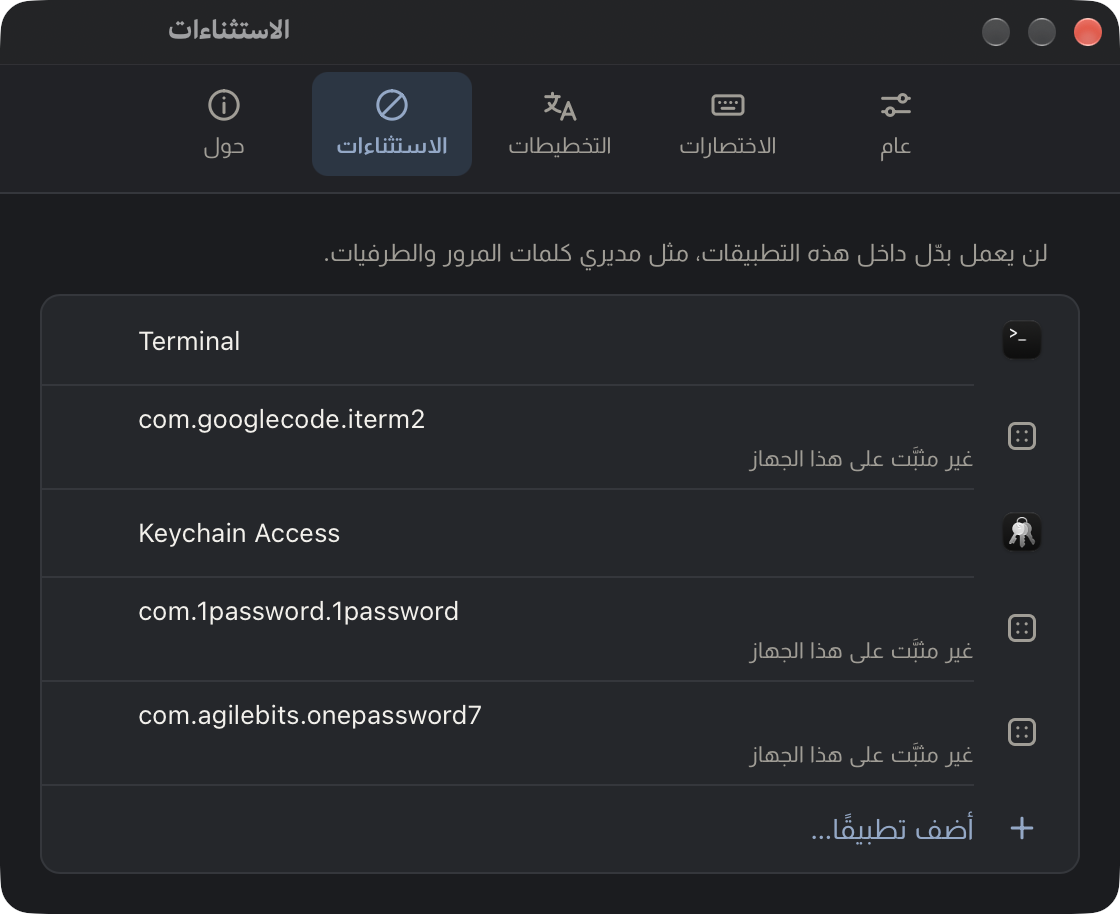
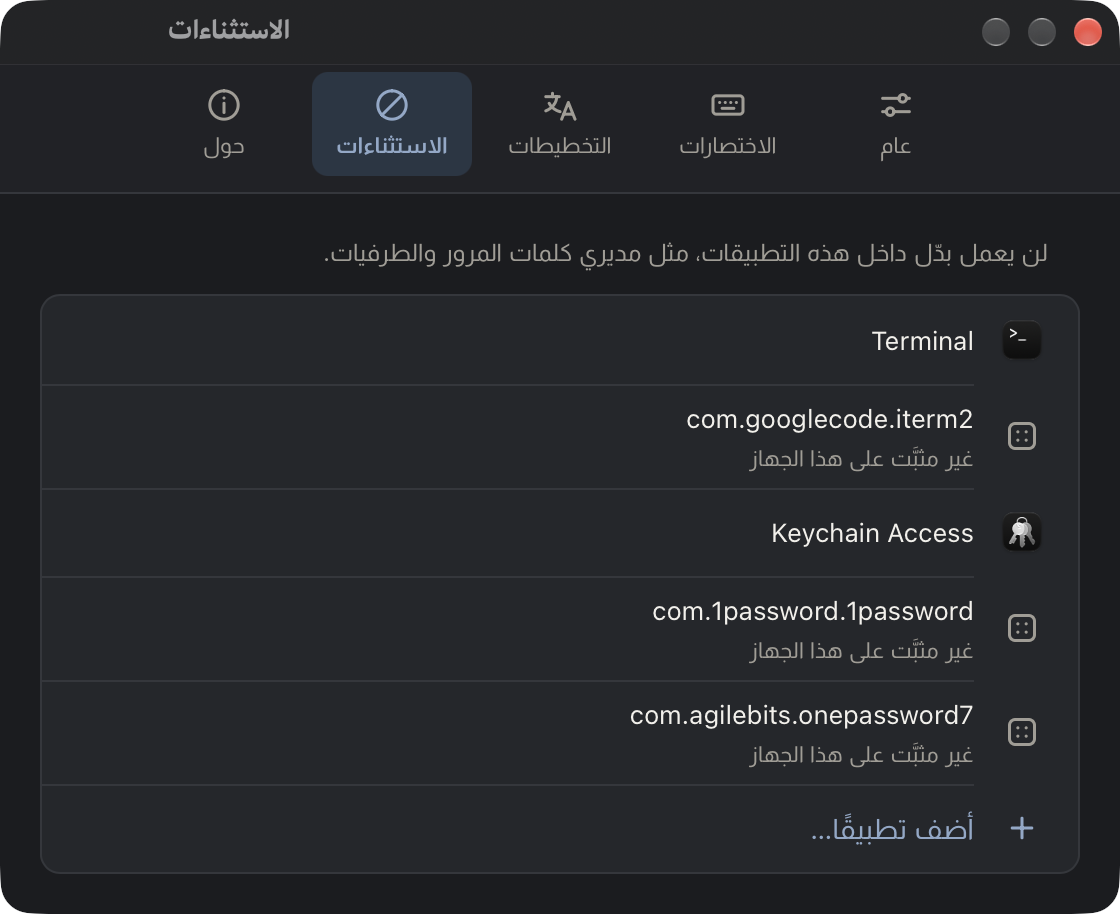
feat(tray): state-aware menu bar glyph; declare ar/en localizations; align app names to the row start in RTL
- tray.rs: the menu bar icon now shows ready / paused / needs-permission, with the
  same precedence as the menu header. The image is replaced only when the state
  actually changes (cached in an AtomicU8) inside the existing rebuild — no new
  timer or polling. Template PNGs exported from Figma.
- Info.plist: CFBundleLocalizations [ar, en] + CFBundleAllowMixedLocalizations, so
  system-drawn UI (the open panel behind "Add app…") follows an Arabic macOS
  instead of falling back to English.
- AppListRow: a Latin app name is still its own LTR run, but it now hugs its text
  and sits beside the icon in RTL. Recaptured the two Arabic Exceptions screenshots.
- STATUS.md: records the three follow-ups.

diff --git a/src/lib/components/AppListRow.svelte b/src/lib/components/AppListRow.svelte
@@ -78,15 +78,19 @@
     color: var(--text-secondary);
   }
 
+  /* A Latin name is its own left-to-right run, but it still belongs beside the icon:
+     the run hugs its text and sits at the row's start, whichever side that is. */
   .text {
     display: flex;
     flex: 1;
     flex-direction: column;
+    align-items: flex-start;
     min-width: 0;
   }
 
   .name,
   .id {
+    max-width: 100%;
     overflow: hidden;
     text-overflow: ellipsis;
     white-space: nowrap;

diff --git a/src-tauri/src/tray.rs b/src-tauri/src/tray.rs
@@ -5,7 +5,7 @@
 //! menus take no custom views, so the status header and the hint are plain
 //! disabled items.
 
-use std::sync::atomic::{AtomicBool, Ordering};
+use std::sync::atomic::{AtomicBool, AtomicU8, Ordering};
 use std::sync::Mutex;
 
 use tauri::image::Image;
@@ -21,19 +21,54 @@ use crate::{settings, sync, windows};
 
 const TRAY_ID: &str = "main";
 const TRAY_ICON: &[u8] = include_bytes!("../icons/tray.png");
+const TRAY_ICON_PAUSED: &[u8] = include_bytes!("../icons/tray-paused.png");
+const TRAY_ICON_NEEDS_PERMISSION: &[u8] = include_bytes!("../icons/tray-needs-permission.png");
+
+/// Which drawing the menu bar icon shows, so the state reads without opening the menu.
+/// All three are template images: black and alpha only, tinted by the system.
+#[derive(Clone, Copy, PartialEq, Eq)]
+#[repr(u8)]
+enum Glyph {
+    Ready = 0,
+    Paused = 1,
+    NeedsPermission = 2,
+}
+
+impl Glyph {
+    /// The same precedence as the menu's header: a missing permission outranks a pause.
+    fn of(trusted: bool, paused: bool) -> Self {
+        match (trusted, paused) {
+            (false, _) => Self::NeedsPermission,
+            (_, true) => Self::Paused,
+            _ => Self::Ready,
+        }
+    }
+
+    fn bytes(self) -> &'static [u8] {
+        match self {
+            Self::Ready => TRAY_ICON,
+            Self::Paused => TRAY_ICON_PAUSED,
+            Self::NeedsPermission => TRAY_ICON_NEEDS_PERMISSION,
+        }
+    }
+}
 
 /// What the menu shows beyond the preferences: the permission and the last conversion.
 #[derive(Default)]
 pub struct TrayState {
     trusted: AtomicBool,
+    /// The glyph currently on the menu bar, so the icon is only replaced when it changes.
+    glyph: AtomicU8,
     /// The last conversion, for the "اثممخ ← hello · تراجع" item. Held in memory only,
     /// never written anywhere, and cleared as soon as undo is no longer offered.
     last: Mutex<Option<(String, String)>>,
 }
 
 pub fn build(app: &AppHandle) -> tauri::Result<TrayIcon> {
+    let glyph = current_glyph(app);
+    app.state::<TrayState>().glyph.store(glyph as u8, Ordering::SeqCst);
     let tray = TrayIconBuilder::with_id(TRAY_ID)
-        .icon(Image::from_bytes(TRAY_ICON)?)
+        .icon(Image::from_bytes(glyph.bytes())?)
         .icon_as_template(true)
         .tooltip(menu_text::strings(app.state::<AppState>().get().language).name)
         .menu(&menu(app)?)
@@ -65,8 +100,21 @@ pub fn rebuild(app: &AppHandle) {
         if let Ok(menu) = menu(&handle) {
             let _ = tray.set_menu(Some(menu));
         }
+        let glyph = current_glyph(&handle);
+        if handle.state::<TrayState>().glyph.swap(glyph as u8, Ordering::SeqCst) != glyph as u8 {
+            if let Ok(image) = Image::from_bytes(glyph.bytes()) {
+                let _ = tray.set_icon(Some(image));
+                // Replacing the image drops the template flag, and with it the system tint.
+                let _ = tray.set_icon_as_template(true);
+            }
+        }
         let _ = tray.set_visible(handle.state::<AppState>().get().show_tray_icon);
     });
+}
+
+fn current_glyph(app: &AppHandle) -> Glyph {
+    let trusted = app.state::<TrayState>().trusted.load(Ordering::SeqCst);
+    Glyph::of(trusted, app.state::<AppState>().get().paused)
 }
 
 fn menu(app: &AppHandle) -> tauri::Result<Menu<Wry>> {

diff --git a/STATUS.md b/STATUS.md
@@ -234,7 +234,12 @@ _طبقة Rust_
 **التحقق:** لقطات التطبيق الفعلي أُعيد التقاطها بعد التطبيق (`./scripts/dev-build.sh && ./scripts/capture.sh`: 42/42 ✓، منها 32 تغيّرت و10 لقطات HUD كما هي لأنه أصيل)، ورُوجعت مقابل Figma. وملف إعدادات المستخدم نُسخ احتياطيًا قبل الالتقاط وأُعيد بعده. `./scripts/check.sh` ✅ (اختبارات Rust 48 ناجحة، clippy نظيف، `svelte-check` 0 أخطاء و0 تحذيرات، `vite build` ناجح). ومراجعة بصرية في المتصفح عبر `mock.ts` للوحات الخمس وخطوات الترحيب الثلاث بالوضعين — مطابقة للوحات Figma.
 
 **لم يُنفَّذ / يُطلب منك:**
-- حالتا رمز شريط القوائم (Paused · NeedsPermission) مصمَّمتان في Figma لكن `tray.rs` يستخدم أيقونة واحدة — تبديلها حسب الحالة تغيير Rust لم يُطلب.
 - `scripts/gen-icon.py` وطبقات SVG في `design/icon/` صارت أقدم من الأيقونة المعتمدة (مصدرها الآن Figma) — تُحسم في المرحلة 5 مع Icon Composer.
 - «آخر تحقق» في صف التحديثات ينتظر المحدِّث (المرحلة 5)، فيُعرض الإصدار وحده الآن.
 - حجم اللاتيني داخل النص العربي: التصميم ينقصه 1px، وCSS لا يتيح ذلك لكل نظام كتابة دون خط وسيط — تُرك بالحجم نفسه.
+
+**تعديلات لاحقة بعد تجربة المستخدم للتطبيق — 2026-09-21**
+- «الاستثناءات»: الاسم اللاتيني كان يُحاذى يسارًا بعيدًا عن الأيقونة في العربية (عنصر `bdi` يأخذ اتجاهه الخاص). صار يلتصق ببداية الصف مع بقاء عزل الاتجاه (`AppListRow.svelte`)، وأُعيد التقاط لقطتي `settings-exceptions-ar-*`.
+- أيقونة شريط القوائم تتبدّل حسب الحالة (`tray.rs`): جاهز · متوقف · يحتاج صلاحية، بالأولوية نفسها التي يستخدمها رأس القائمة. الصور الثلاث template مُصدَّرة من Figma (`icons/tray*.png`)، ولا تُستبدل الصورة إلا عند تغيّر الحالة فعلًا (مقارنة `AtomicU8`) داخل `rebuild` القائم — لا مؤقّت ولا استطلاع جديد، فلا أثر على السرعة أو الذاكرة. تُحقِّق منها بلقطة لشريط القوائم في حالتي «جاهز» و«متوقف».
+- نافذة «أضف تطبيقًا…» (NSOpenPanel) كانت تظهر بالإنجليزية على نظام عربي لأن الحزمة لا تُعلن لغاتها. أضيف `CFBundleLocalizations = [ar, en]` و`CFBundleAllowMixedLocalizations` في `src-tauri/Info.plist`؛ تُحقِّق أن macOS يرى اللغتين ويختار `ar` لتفضيل `ar-SA`. ملاحظة: لغة نوافذ النظام تتبع لغة macOS لا خيار «لغة الواجهة» داخل بدّل.
+
